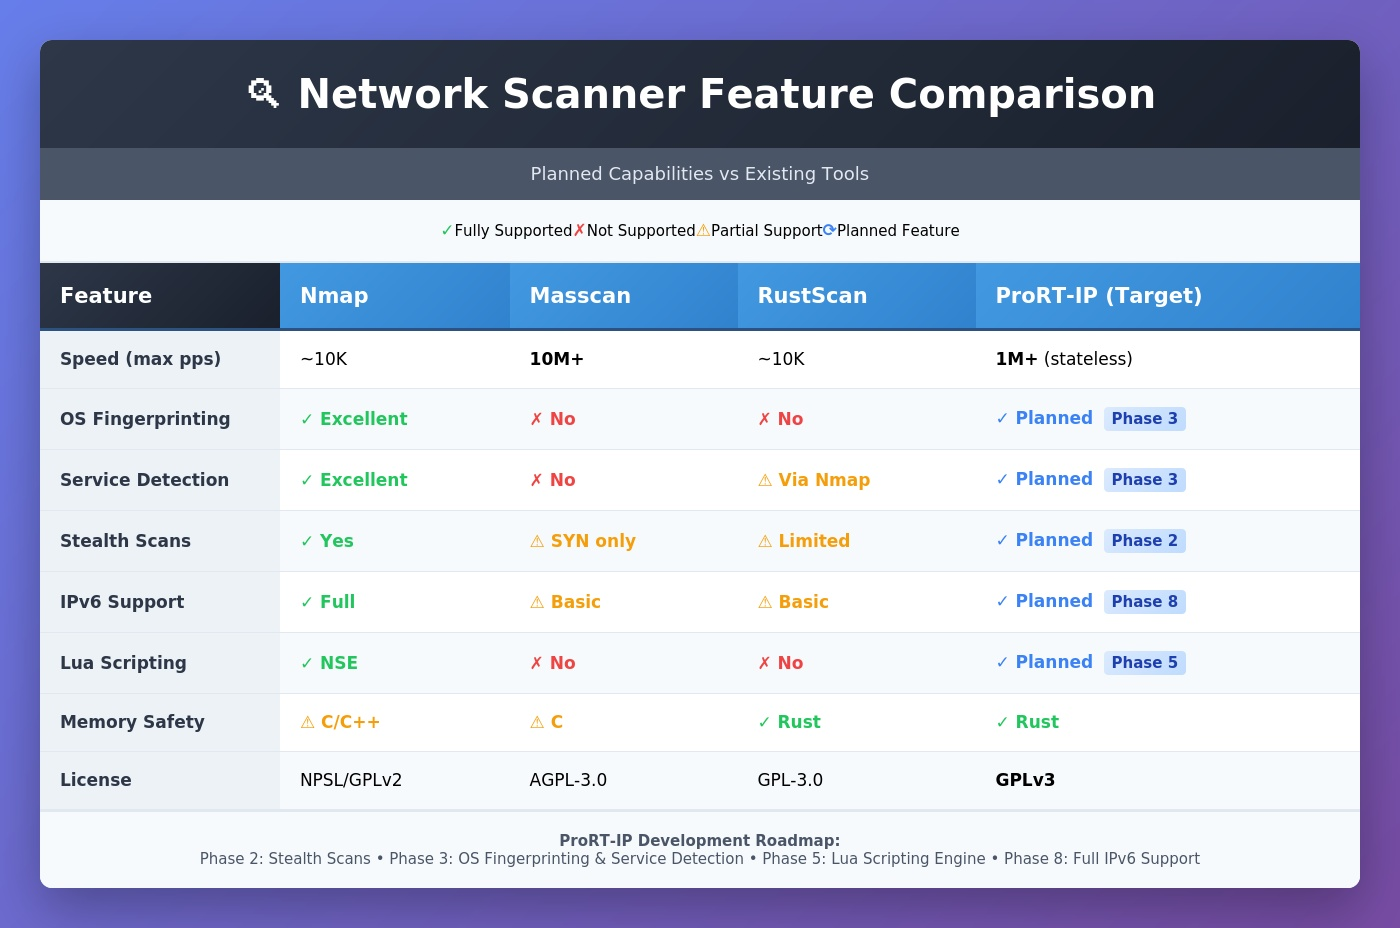
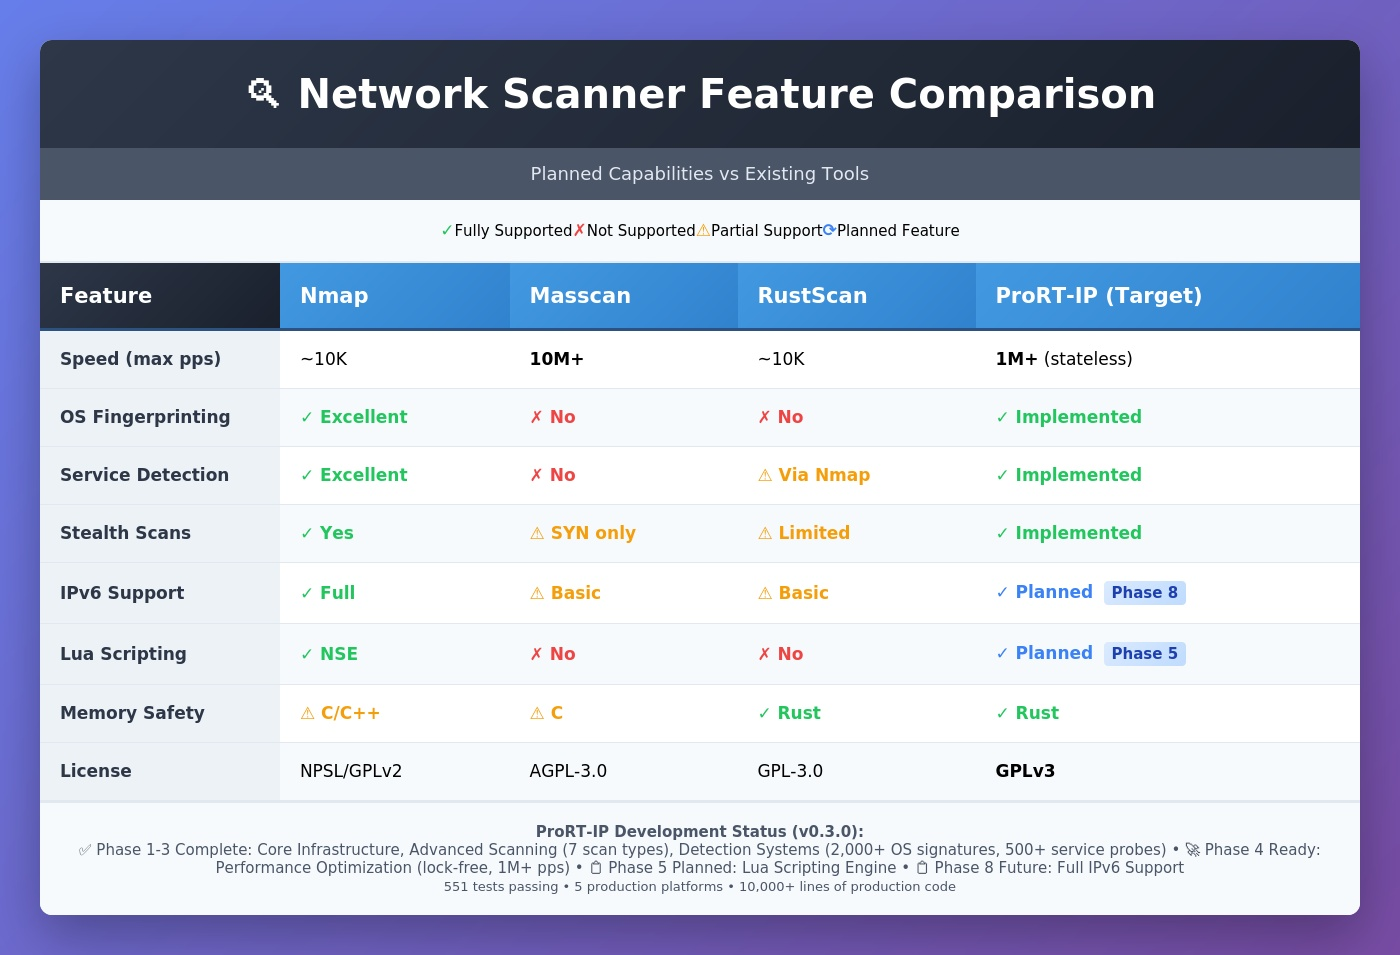
docs: Update scanner comparison image and add HTML version
- Updated images/scanner_comparison.jpg with latest feature comparison chart
- Added html/scanner_comparison.html for web-based feature matrix viewing
- Provides visual comparison of ProRT-IP vs Nmap/Masscan/ZMap/RustScan

Changed region(s): [[0.0307, 0.1562, 0.9829, 0.9375], [0.1843, 0.0625, 0.8293, 0.125]]

diff --git a/html/scanner_comparison.html b/html/scanner_comparison.html
@@ -1,0 +1,248 @@
+<!DOCTYPE html>
+<html lang="en">
+<head>
+    <meta charset="UTF-8">
+    <meta name="viewport" content="width=device-width, initial-scale=1.0">
+    <title>Network Scanner Feature Comparison</title>
+    <style>
+        body {
+            font-family: 'Segoe UI', Tahoma, Geneva, Verdana, sans-serif;
+            background: linear-gradient(135deg, #667eea 0%, #764ba2 100%);
+            padding: 40px;
+            margin: 0;
+        }
+        .container {
+            max-width: 1400px;
+            margin: 0 auto;
+            background: white;
+            border-radius: 12px;
+            box-shadow: 0 20px 60px rgba(0,0,0,0.3);
+            overflow: hidden;
+        }
+        h1 {
+            background: linear-gradient(135deg, #2d3748 0%, #1a202c 100%);
+            color: white;
+            text-align: center;
+            padding: 30px;
+            margin: 0;
+            font-size: 2.5em;
+            font-weight: 700;
+        }
+        .subtitle {
+            text-align: center;
+            background: #4a5568;
+            color: #e2e8f0;
+            padding: 15px;
+            font-size: 1.1em;
+        }
+        table {
+            width: 100%;
+            border-collapse: collapse;
+            margin: 0;
+        }
+        th {
+            background: linear-gradient(135deg, #4299e1 0%, #3182ce 100%);
+            color: white;
+            padding: 20px;
+            text-align: left;
+            font-size: 1.3em;
+            font-weight: 600;
+            border-bottom: 3px solid #2c5282;
+        }
+        th:first-child {
+            background: linear-gradient(135deg, #2d3748 0%, #1a202c 100%);
+            width: 200px;
+        }
+        td {
+            padding: 18px 20px;
+            border-bottom: 1px solid #e2e8f0;
+            font-size: 1.05em;
+        }
+        tr:nth-child(even) {
+            background-color: #f7fafc;
+        }
+        tr:hover {
+            background-color: #edf2f7;
+        }
+        td:first-child {
+            font-weight: 600;
+            background-color: #edf2f7;
+            color: #2d3748;
+        }
+        .excellent {
+            color: #22c55e;
+            font-weight: 600;
+        }
+        .yes {
+            color: #22c55e;
+            font-weight: 600;
+        }
+        .no {
+            color: #ef4444;
+            font-weight: 600;
+        }
+        .partial {
+            color: #f59e0b;
+            font-weight: 600;
+        }
+        .planned {
+            color: #3b82f6;
+            font-weight: 600;
+        }
+        .phase {
+            background: linear-gradient(135deg, #dbeafe 0%, #bfdbfe 100%);
+            padding: 3px 8px;
+            border-radius: 4px;
+            font-size: 0.9em;
+            font-weight: 700;
+            color: #1e40af;
+            margin-left: 5px;
+            display: inline-block;
+        }
+        .version {
+            background: linear-gradient(135deg, #d1fae5 0%, #a7f3d0 100%);
+            padding: 3px 8px;
+            border-radius: 4px;
+            font-size: 0.9em;
+            font-weight: 700;
+            color: #065f46;
+            margin-left: 5px;
+            display: inline-block;
+        }
+        .rust {
+            color: #ce422b;
+            font-weight: 600;
+        }
+        .c-cpp {
+            color: #659ad2;
+            font-weight: 600;
+        }
+        .footer {
+            background: #f7fafc;
+            padding: 20px;
+            text-align: center;
+            color: #4a5568;
+            font-size: 0.95em;
+            border-top: 2px solid #e2e8f0;
+        }
+        .legend {
+            display: flex;
+            justify-content: center;
+            gap: 30px;
+            padding: 20px;
+            background: #f7fafc;
+            border-bottom: 2px solid #e2e8f0;
+            flex-wrap: wrap;
+        }
+        .legend-item {
+            display: flex;
+            align-items: center;
+            gap: 8px;
+            font-size: 0.95em;
+        }
+        .legend-symbol {
+            font-weight: 700;
+            font-size: 1.1em;
+        }
+    </style>
+</head>
+<body>
+    <div class="container">
+        <h1>🔍 Network Scanner Feature Comparison</h1>
+        <div class="subtitle">Planned Capabilities vs Existing Tools</div>
+        
+        <div class="legend">
+            <div class="legend-item">
+                <span class="legend-symbol excellent">✓</span> <span>Fully Supported</span>
+            </div>
+            <div class="legend-item">
+                <span class="legend-symbol no">✗</span> <span>Not Supported</span>
+            </div>
+            <div class="legend-item">
+                <span class="legend-symbol partial">⚠</span> <span>Partial Support</span>
+            </div>
+            <div class="legend-item">
+                <span class="legend-symbol planned">⟳</span> <span>Planned Feature</span>
+            </div>
+        </div>
+
+        <table>
+            <thead>
+                <tr>
+                    <th>Feature</th>
+                    <th>Nmap</th>
+                    <th>Masscan</th>
+                    <th>RustScan</th>
+                    <th>ProRT-IP (Target)</th>
+                </tr>
+            </thead>
+            <tbody>
+                <tr>
+                    <td>Speed (max pps)</td>
+                    <td>~10K</td>
+                    <td><strong>10M+</strong></td>
+                    <td>~10K</td>
+                    <td><strong>1M+</strong> (stateless)</td>
+                </tr>
+                <tr>
+                    <td>OS Fingerprinting</td>
+                    <td><span class="excellent">✓ Excellent</span></td>
+                    <td><span class="no">✗ No</span></td>
+                    <td><span class="no">✗ No</span></td>
+                    <td><span class="yes">✓ Implemented</span></td>
+                </tr>
+                <tr>
+                    <td>Service Detection</td>
+                    <td><span class="excellent">✓ Excellent</span></td>
+                    <td><span class="no">✗ No</span></td>
+                    <td><span class="partial">⚠ Via Nmap</span></td>
+                    <td><span class="yes">✓ Implemented</span></td>
+                </tr>
+                <tr>
+                    <td>Stealth Scans</td>
+                    <td><span class="yes">✓ Yes</span></td>
+                    <td><span class="partial">⚠ SYN only</span></td>
+                    <td><span class="partial">⚠ Limited</span></td>
+                    <td><span class="yes">✓ Implemented</span></td>
+                </tr>
+                <tr>
+                    <td>IPv6 Support</td>
+                    <td><span class="yes">✓ Full</span></td>
+                    <td><span class="partial">⚠ Basic</span></td>
+                    <td><span class="partial">⚠ Basic</span></td>
+                    <td><span class="planned">✓ Planned</span> <span class="phase">Phase 8</span></td>
+                </tr>
+                <tr>
+                    <td>Lua Scripting</td>
+                    <td><span class="excellent">✓ NSE</span></td>
+                    <td><span class="no">✗ No</span></td>
+                    <td><span class="no">✗ No</span></td>
+                    <td><span class="planned">✓ Planned</span> <span class="phase">Phase 5</span></td>
+                </tr>
+                <tr>
+                    <td>Memory Safety</td>
+                    <td><span class="partial">⚠ C/C++</span></td>
+                    <td><span class="partial">⚠ C</span></td>
+                    <td><span class="yes">✓ Rust</span></td>
+                    <td><span class="yes">✓ Rust</span></td>
+                </tr>
+                <tr>
+                    <td>License</td>
+                    <td>NPSL/GPLv2</td>
+                    <td>AGPL-3.0</td>
+                    <td>GPL-3.0</td>
+                    <td><strong>GPLv3</strong></td>
+                </tr>
+            </tbody>
+        </table>
+
+        <div class="footer">
+            <strong>ProRT-IP Development Status (v0.3.0):</strong><br>
+            ✅ Phase 1-3 Complete: Core Infrastructure, Advanced Scanning (7 scan types), Detection Systems (2,000+ OS signatures, 500+ service probes) • 
+            🚀 Phase 4 Ready: Performance Optimization (lock-free, 1M+ pps) • 
+            📋 Phase 5 Planned: Lua Scripting Engine • 📋 Phase 8 Future: Full IPv6 Support<br>
+            <small>551 tests passing • 5 production platforms • 10,000+ lines of production code</small>
+        </div>
+    </div>
+</body>
+</html>
